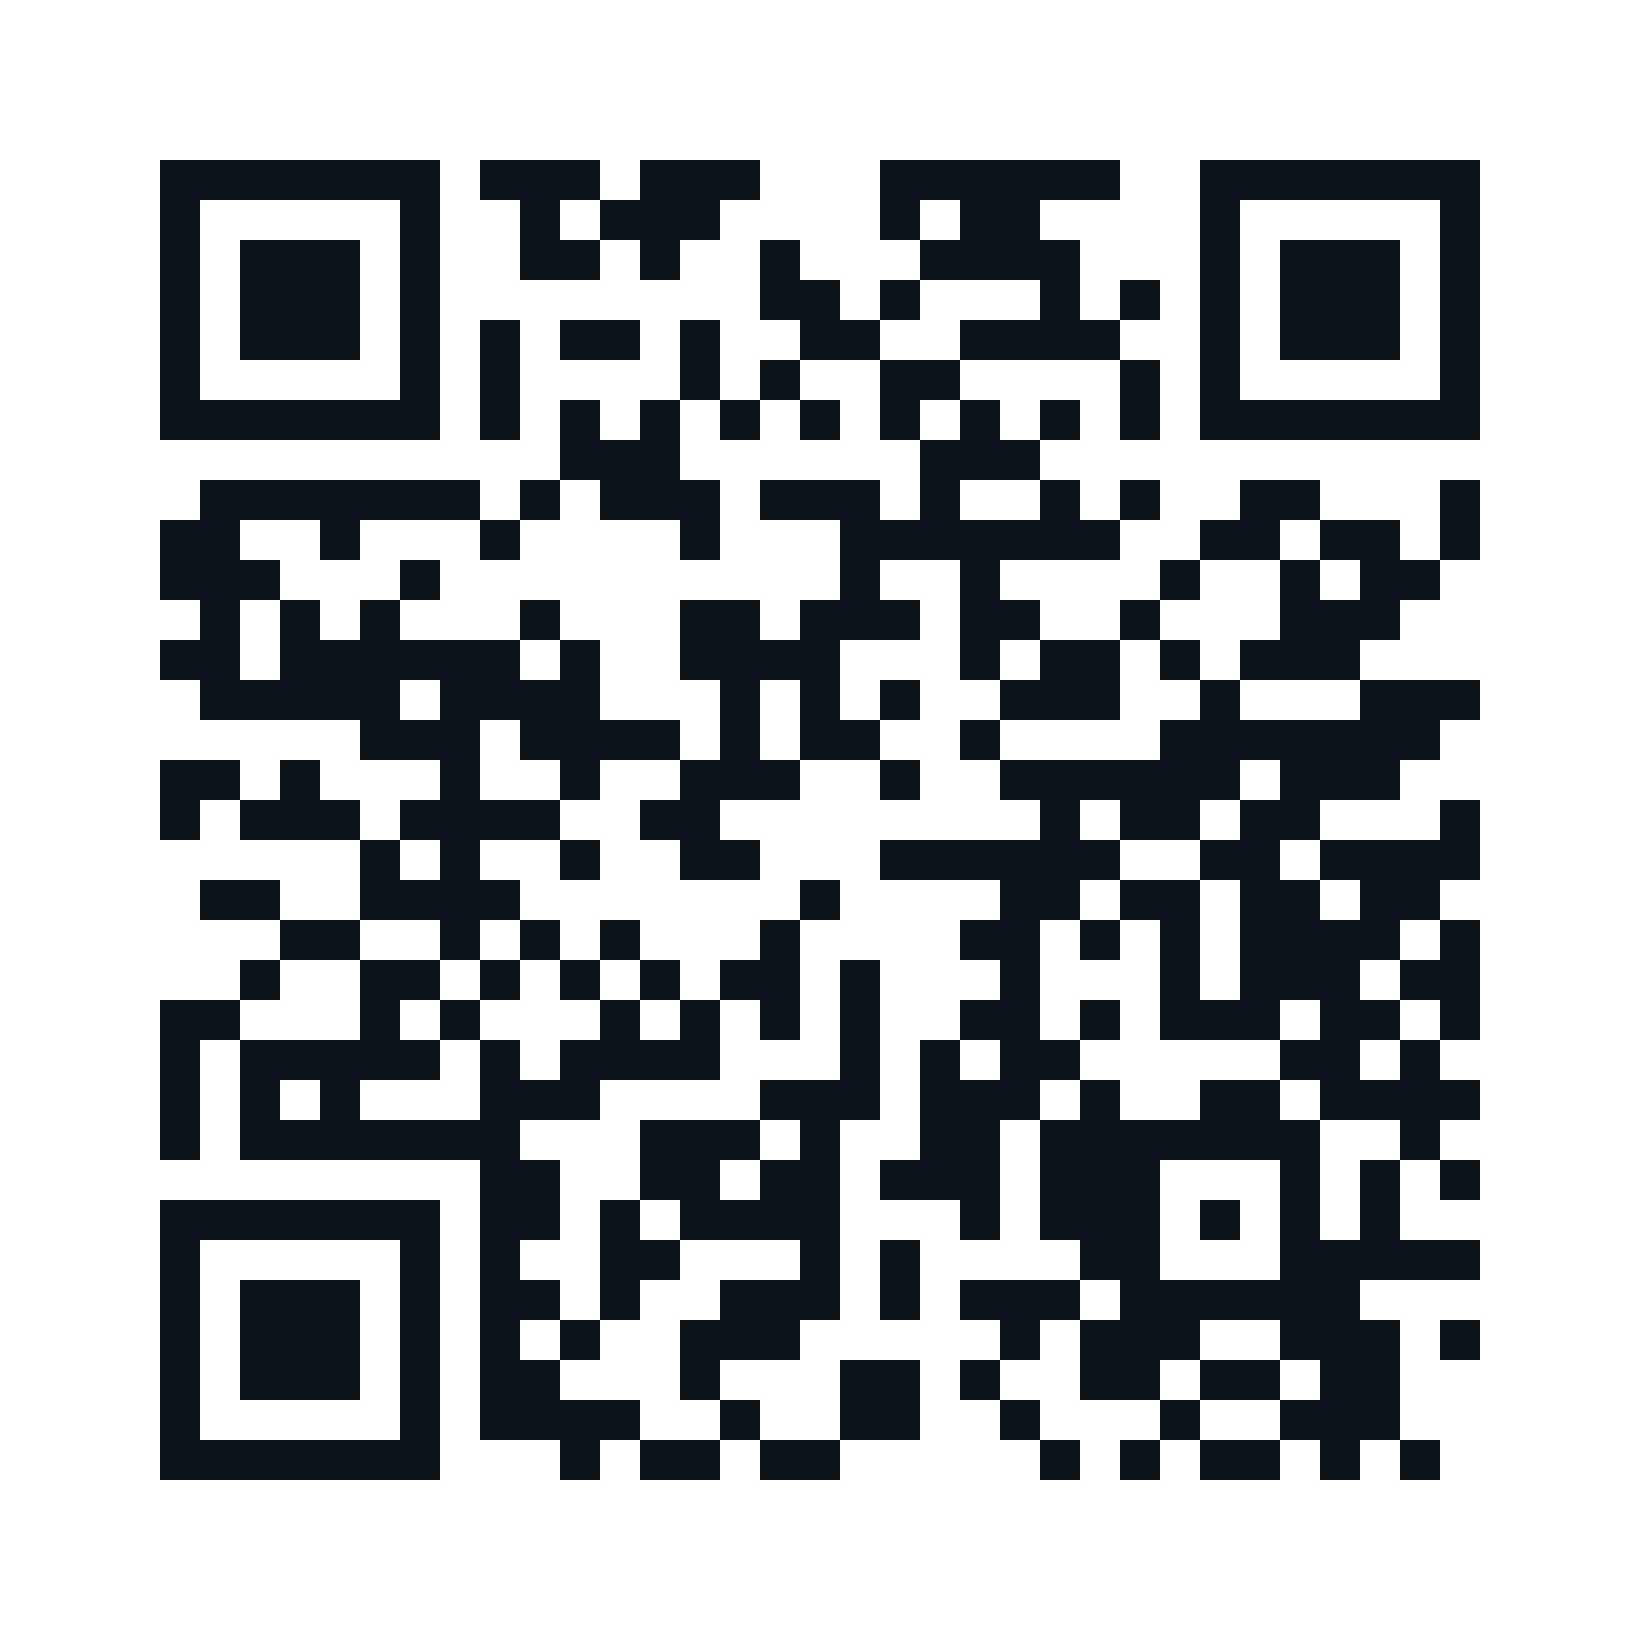
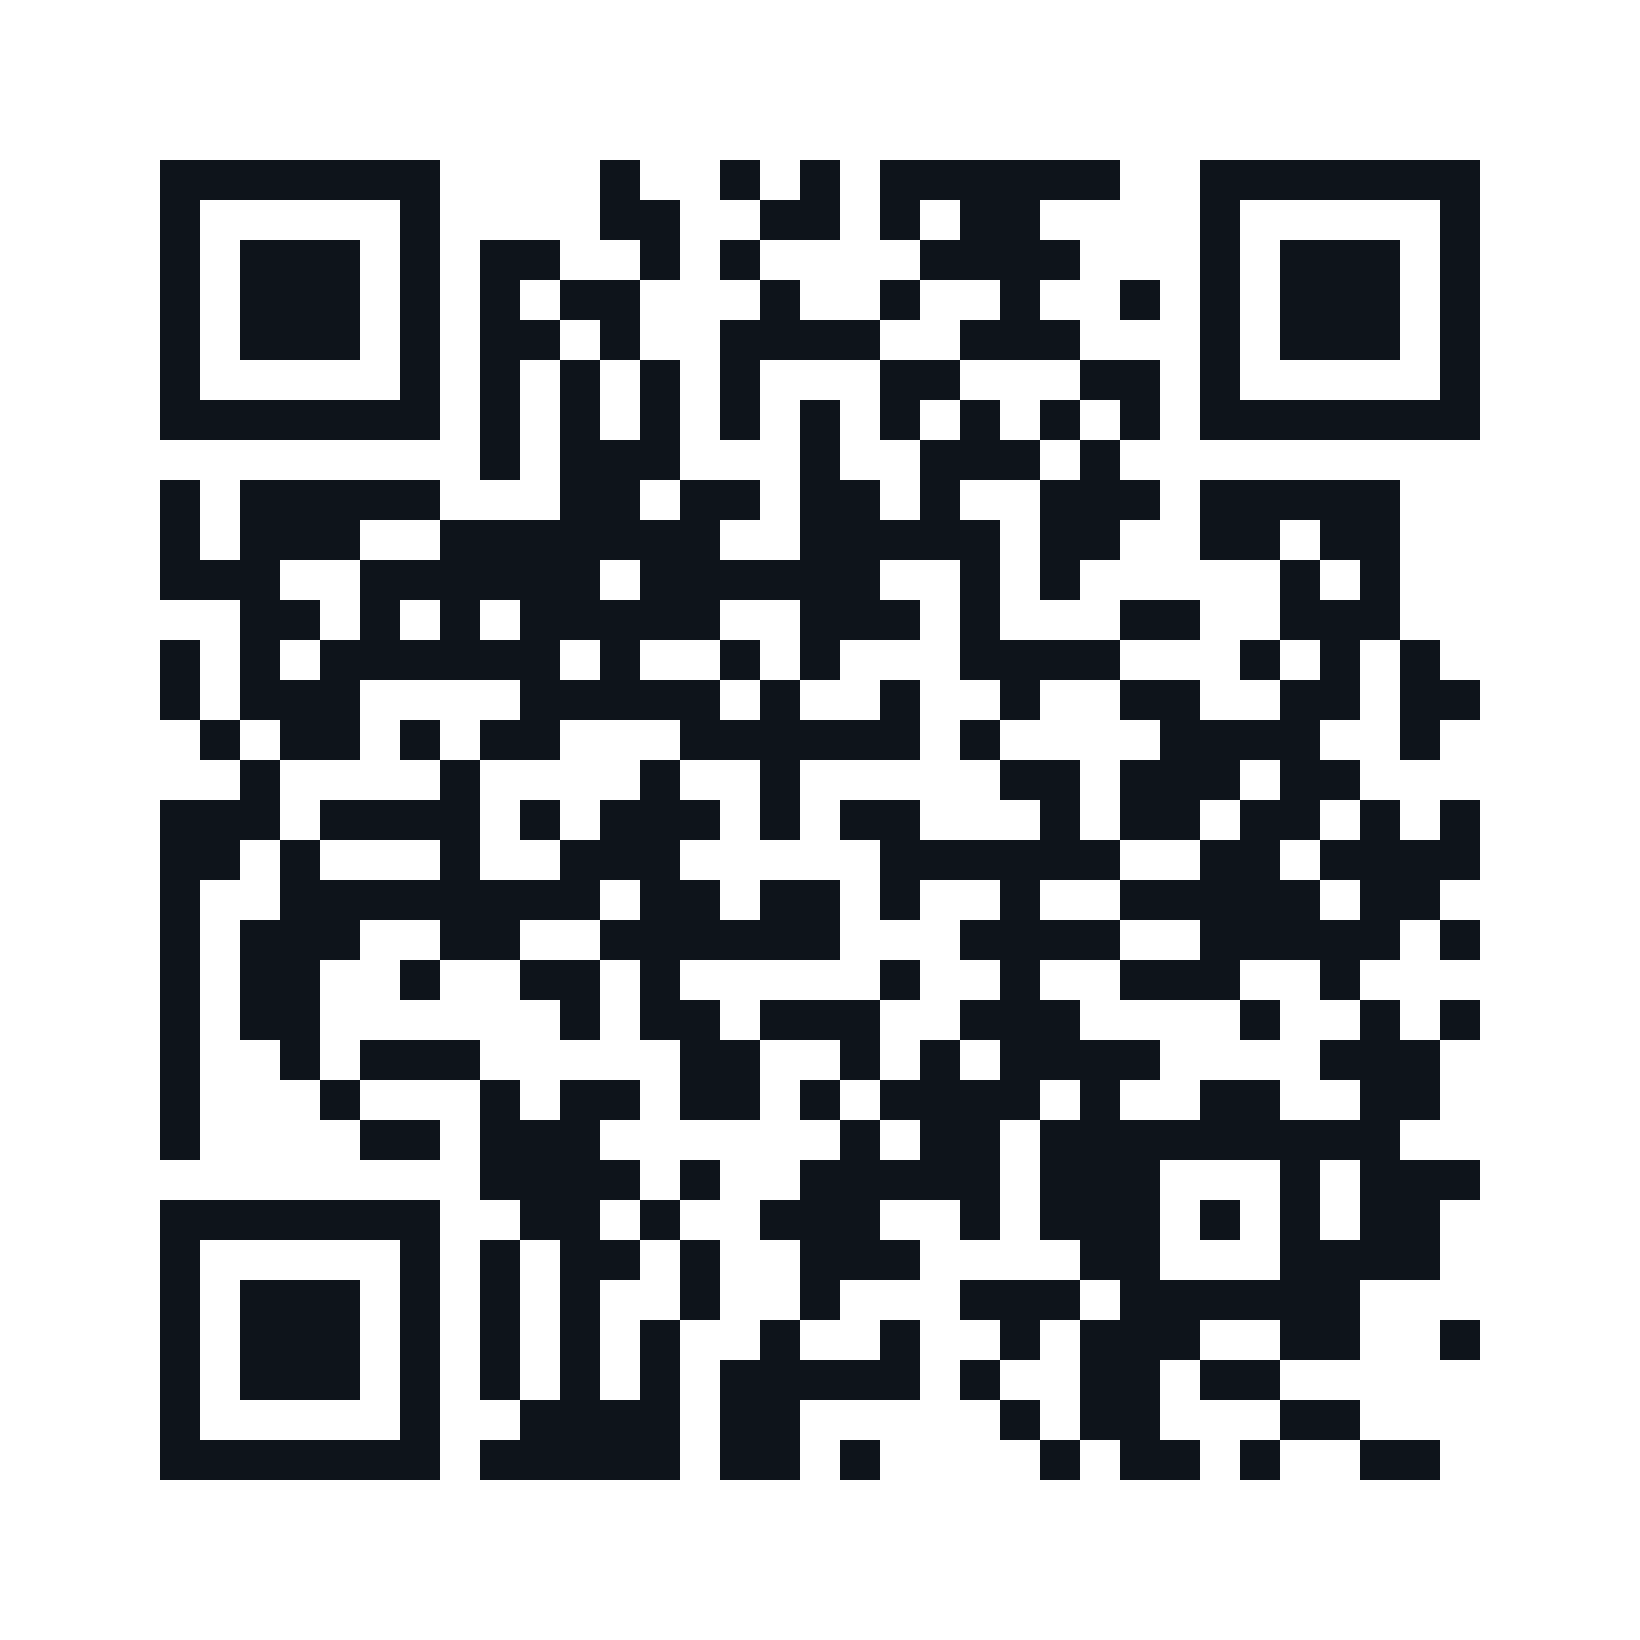
Move the canonical address to bevierstrategic.com
site.ts was written for exactly this moment - its url field carried the
comment "change once when moving to the custom domain" - so the live site
is a one-line change. Ten surfaces read site.url, and all of them follow
from it: sitemap, robots, metadataBase, the JSON-LD graph, the OG card and
the federal capability-statement contact line.

Verified in the built output rather than the source: zero pages.dev
references remain across 23 routes, and 100 files carry the new host.
Sitemap, robots, canonical tags and og:url all resolve to the new domain.

The brochures are included because the print assets are no longer being
protected - a reprint is expected. Both source files, the physical-QA
expected URL, and the QR code itself now point at the new domain. The QR
bitmap was regenerated to the same geometry it had before: 1640x1640,
version 4, 33 modules at 40px, a four-module quiet zone and the same
#0E141B ink, so it drops into the existing layout without reflowing it.
It decodes to https://bevierstrategic.com/start.

Nothing already printed breaks. Cloudflare Pages keeps serving the
.pages.dev subdomain after a custom domain is attached, so the old codes
still resolve; a bulk redirect can forward them here once the domain is
live.

CHANGELOG and BUILD_REPORT keep their pages.dev references on purpose -
they are historical records of what was true at the time, not live
instructions.

lint PASS - typecheck PASS - 155/155 tests - production build PASS

diff --git a/src/lib/site.ts b/src/lib/site.ts
@@ -73,8 +73,14 @@ export const site = {
     "Secure AI · Intelligent Automation · Cybersecurity · Compliance Readiness",
   promise:
     "Secure the data. Enable the AI. Prove the controls. Keep what already works, connect what is disconnected, and automate what is repetitive — without giving up control of company information.",
-  /** Production URL — change once when moving to the custom domain. */
-  url: "https://bevierstrategic.pages.dev",
+  /**
+   * Production URL. Everything canonical derives from this one string —
+   * sitemap, robots, metadataBase, JSON-LD, the OG card and the federal
+   * contact line. The Cloudflare Pages project keeps serving
+   * bevierstrategic.pages.dev, so printed QR codes made before the move
+   * still resolve; a bulk redirect sends them here.
+   */
+  url: "https://bevierstrategic.com",
   /**
    * THE single public contact address for the whole site. Every surface that
    * shows an email reads it from here — nothing hard-codes an address.

diff --git a/brochures/src/client.html b/brochures/src/client.html
@@ -134,10 +134,10 @@
 
     <div class="foot" style="position:relative">
       <div class="qr" style="position:relative;margin-bottom:.12in">
-        <img src="../assets/qr-bsts.png" alt="QR code to bevierstrategic.pages.dev">
+        <img src="../assets/qr-bsts.png" alt="QR code to bevierstrategic.com">
         <div>
           <p class="qr-t" style="margin-bottom:.035in">Capabilities, engagement<br>detail, and contact.</p>
-          <p class="qr-u">bevierstrategic.pages.dev</p>
+          <p class="qr-u">bevierstrategic.com</p>
         </div>
       </div>
       <div class="foot-rule"></div>
@@ -259,7 +259,7 @@
         </p>
       </div>
       <p class="vet block" style="margin-top:.15in">Veteran-Owned &amp; Operated</p>
-      <p class="legal center" style="margin-top:.07in">bevierstrategic.pages.dev</p>
+      <p class="legal center" style="margin-top:.07in">bevierstrategic.com</p>
     </div>
   </div>
 

diff --git a/brochures/src/advisor.html b/brochures/src/advisor.html
@@ -108,10 +108,10 @@
     <div class="spacer"></div>
 
     <div class="qr" style="margin-bottom:.15in">
-      <img src="../assets/qr-bsts.png" alt="QR code to bevierstrategic.pages.dev">
+      <img src="../assets/qr-bsts.png" alt="QR code to bevierstrategic.com">
       <div>
         <p class="qr-t" style="margin-bottom:.04in">Capabilities, engagement<br>detail, and contact.</p>
-        <p class="qr-u">bevierstrategic.pages.dev</p>
+        <p class="qr-u">bevierstrategic.com</p>
       </div>
     </div>
 
@@ -238,7 +238,7 @@
     </p>
 
     <p class="vet block">Veteran-Owned &amp; Operated</p>
-    <p class="legal center" style="margin-top:.08in">bevierstrategic.pages.dev</p>
+    <p class="legal center" style="margin-top:.08in">bevierstrategic.com</p>
   </div>
 
   <div class="fold fo1"></div>

diff --git a/src/app/(marketing)/start/page.tsx b/src/app/(marketing)/start/page.tsx
@@ -4,7 +4,7 @@ import { StartRedirect } from "./redirect";
 
 /**
  * QR landing route. The brochures' QR codes encode
- * https://bevierstrategic.pages.dev/start — a short, stable address that
+ * https://bevierstrategic.com/start — a short, stable address that
  * forwards into the discovery assessment. Keeping it as its own route means
  * a future custom domain or a different landing experience only changes
  * this file, never the printed codes.

diff --git a/brochures/src/qa-physical.py b/brochures/src/qa-physical.py
@@ -21,7 +21,7 @@ from pyzbar.pyzbar import decode as qr_decode
 OUT = Path(__file__).resolve().parent.parent / "out"
 TRIM_W, TRIM_H, BLEED = 11.0, 8.5, 0.125
 DPI = 300
-EXPECT_URL = "https://bevierstrategic.pages.dev/start"
+EXPECT_URL = "https://bevierstrategic.com/start"
 
 results = []
 def check(name, ok, detail=""):

diff --git a/CLAIMS_REGISTER.md b/CLAIMS_REGISTER.md
@@ -92,4 +92,4 @@ checks the mandated phrases exist.
 | --- | --- | --- |
 | "More than 16 years serving federal missions through military leadership and civilian cybersecurity work." | Approved experience statement | The ONLY permitted experience-duration wording. "17+ years" / "17 years" / "federal experience as a civilian" are test-banned. Military and civilian service are described together without implying all years were civilian federal employment. |
 | "Company name: Bevier Strategic Technology Solutions" | Pre-formation label | While formationStatus = "pre_formation", the public label is "Company name" and no "LLC" appears. "Legal business name" + the exact registered name appear only after the filing is approved and formationStatus = "formed" (test-enforced). |
-| Federal contact display | Config-driven | Until NEXT_PUBLIC_FEDERAL_CONTACT_EMAIL is set, federal surfaces show "Contact: bevierstrategic.pages.dev/government" instead of printing a personal address prominently. |
+| Federal contact display | Config-driven | Until NEXT_PUBLIC_FEDERAL_CONTACT_EMAIL is set, federal surfaces show "Contact: bevierstrategic.com/government" instead of printing a personal address prominently. |

diff --git a/brochures/PRINT_INSTRUCTIONS.md b/brochures/PRINT_INSTRUCTIONS.md
@@ -112,7 +112,7 @@ Print behaviour
 QR codes
 
 - Decoded from the 300 DPI raster of the final PDFs, not from the source image
-- Both resolve to `https://bevierstrategic.pages.dev/start` — a stable QR
+- Both resolve to `https://bevierstrategic.com/start` — a stable QR
   landing route that forwards into the discovery assessment
 - Module size 0.45 mm, above the 0.4 mm reliable-scan threshold for matte
 
@@ -129,10 +129,10 @@ Claims
 
 ## Before you print — two things to settle
 
-**1. One canonical address: `bevierstrategic.pages.dev`. (Settled.)**
+**1. One canonical address: `bevierstrategic.com`. (Settled.)**
 
 The QR code and the printed URL on both brochures now point to
-`bevierstrategic.pages.dev` — the Cloudflare Pages project connected to
+`bevierstrategic.com` — the custom domain on the Cloudflare Pages project connected to
 GitHub, which redeploys automatically on every push to `main` and matches
 the repo's `site.url`. The old `bsts.pages.dev` project was a one-time
 manual upload; delete it (or make it redirect) in the Cloudflare dashboard

diff --git a/FEDERAL_LAUNCH_CHECKLIST.md b/FEDERAL_LAUNCH_CHECKLIST.md
@@ -28,7 +28,7 @@ when the values are filled in.
 
 ## Controlled production submission test (do once after each deploy that touches forms)
 
-1. Open https://bevierstrategic.pages.dev/government in a private/incognito window.
+1. Open https://bevierstrategic.com/government in a private/incognito window.
 2. Fill the federal inquiry form with clearly-marked test data ("TEST — please ignore"), org type "Other", opportunity type "General inquiry".
 3. Press **Send inquiry** once. Confirm the green success message appears.
 4. Confirm the email arrives in the private delivery inbox within a few minutes. If the success message showed but no email arrived, STOP — the form is lying and must be fixed before any outreach.

diff --git a/DEPLOY_CLOUDFLARE.md b/DEPLOY_CLOUDFLARE.md
@@ -31,7 +31,7 @@ npx wrangler pages deploy out --project-name=bsts
 
 ## After the first deploy
 
-- Update `src/lib/site.ts` → `url` to the real `*.pages.dev` address (it
+- Update `src/lib/site.ts` → `url` to the production address (it
   feeds canonical metadata, sitemap.xml, robots.txt, and JSON-LD), then push.
 - Verify `/sitemap.xml` and `/robots.txt` resolve.
 - Run a Lighthouse pass against the deployed URL.
